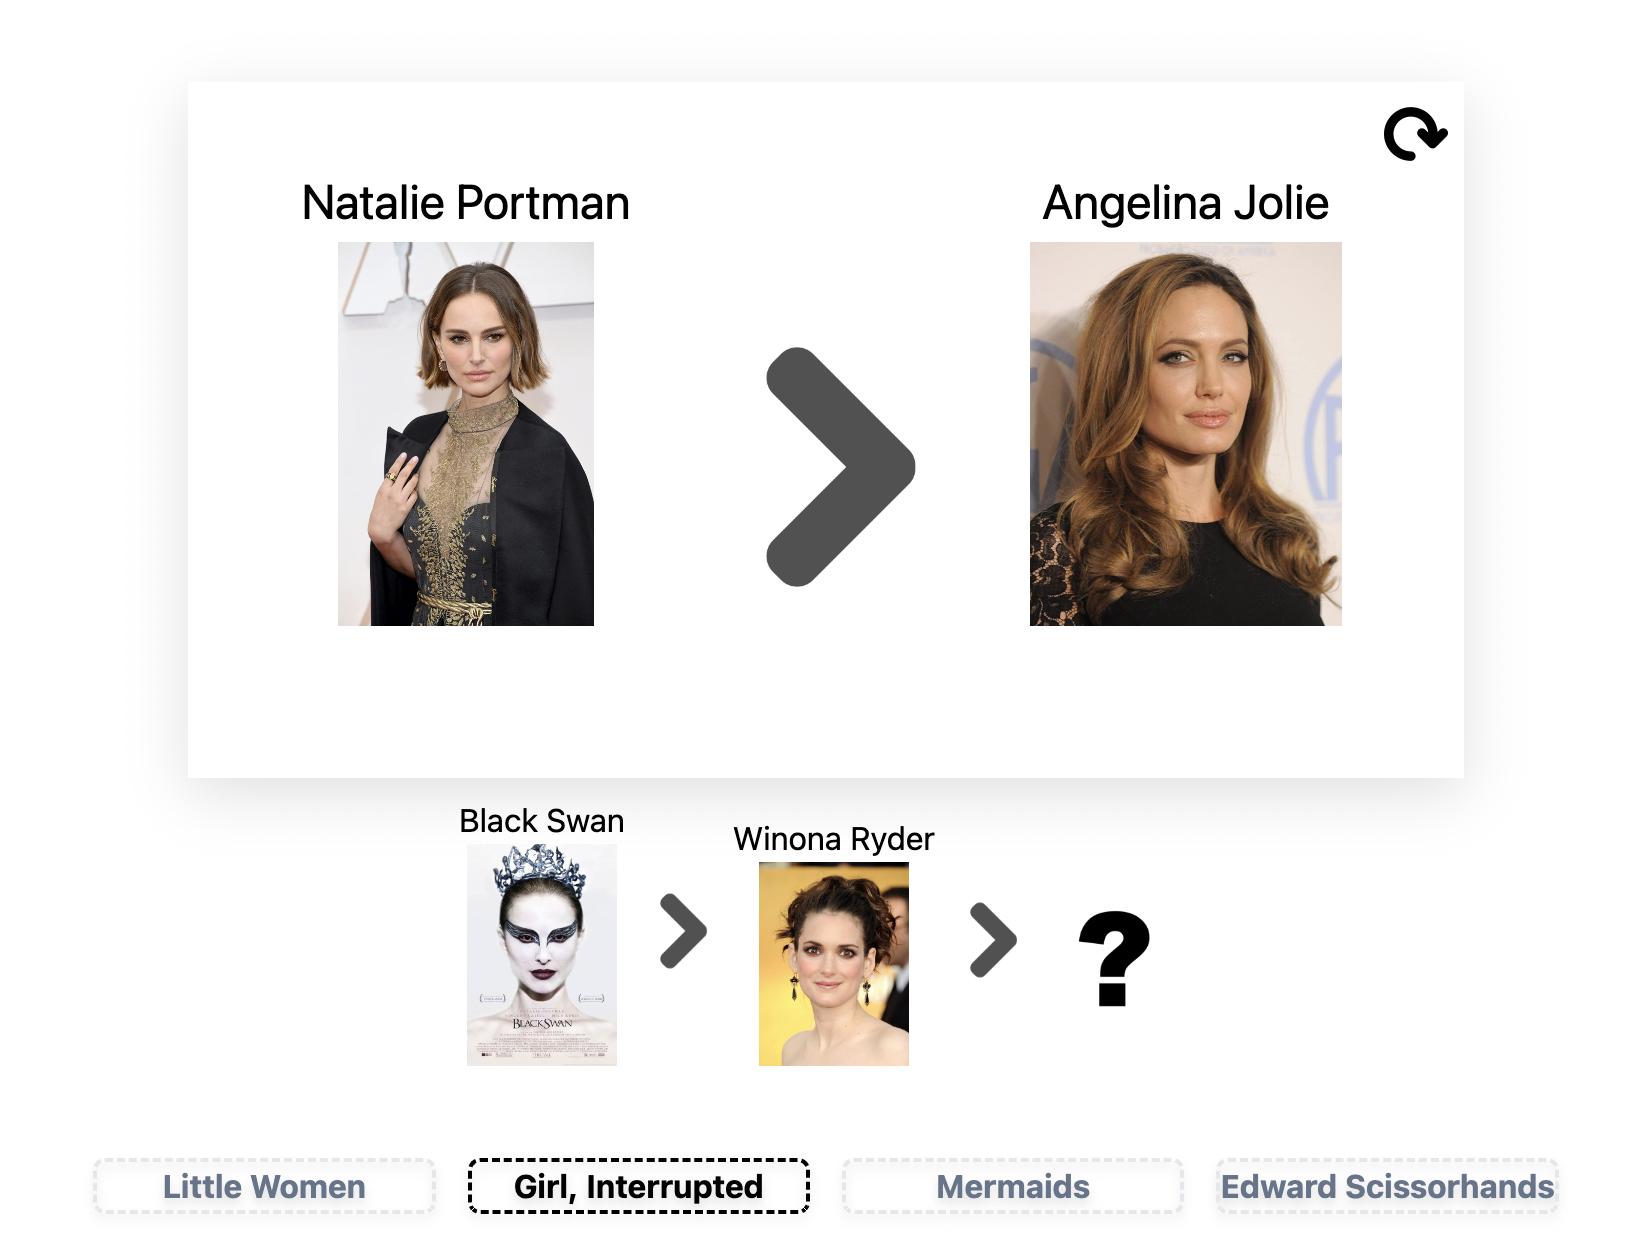
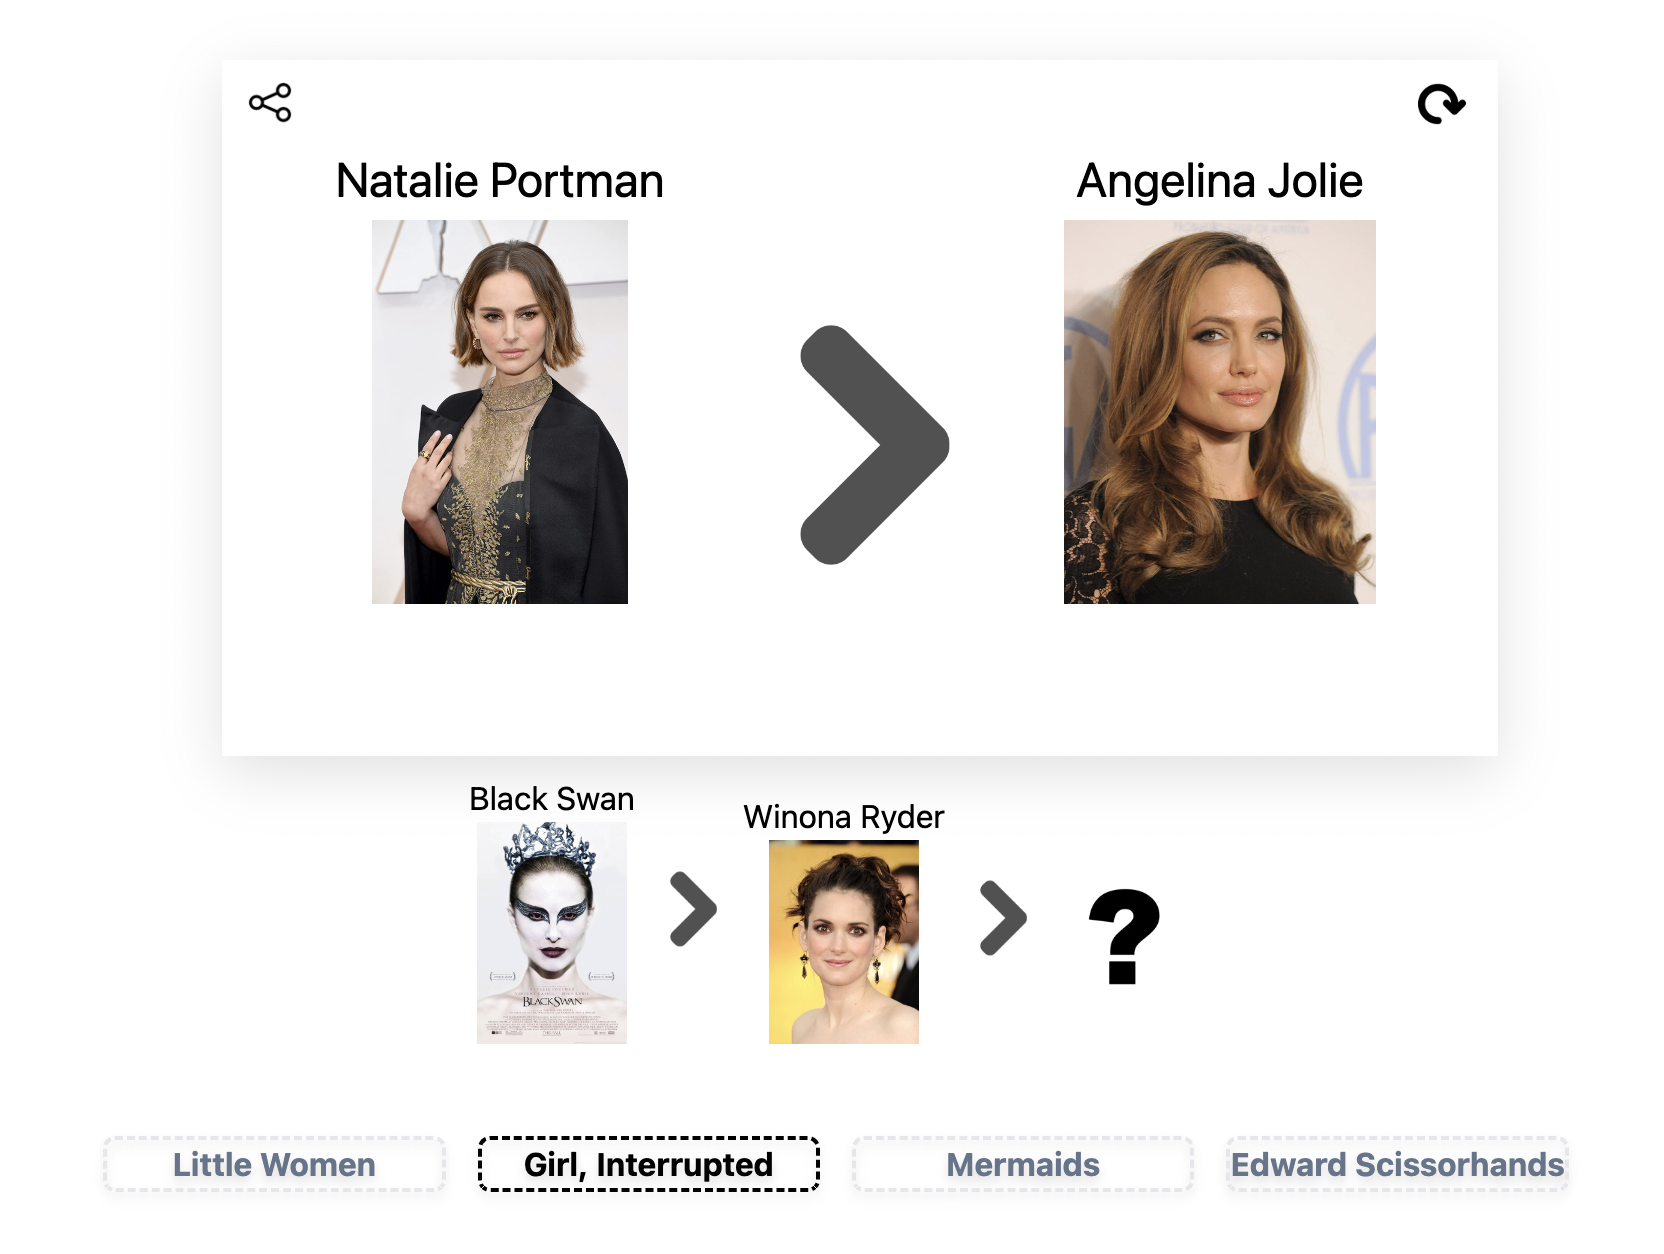
update how to

diff --git a/components/how-to.tsx b/components/how-to.tsx
@@ -15,9 +15,12 @@ const HowTo = (props) => {
               Find the connection between the 2 actors. You will be given options to choose from that take you from an actor to a work of art and vice versa.
               <br/>
               Give up? Don't recognize the actors? Click the refresh button on the top right corner to regenerate a pair of actors!
+              <br/>
+              At any point, you can share the this same game with your friends by clicking the share button on the top left corner!
+
 
               <br/><br/>
-              For example:
+              Example:
               <br/>
                 <img src={howto0.src}  /> 
               <br/>
